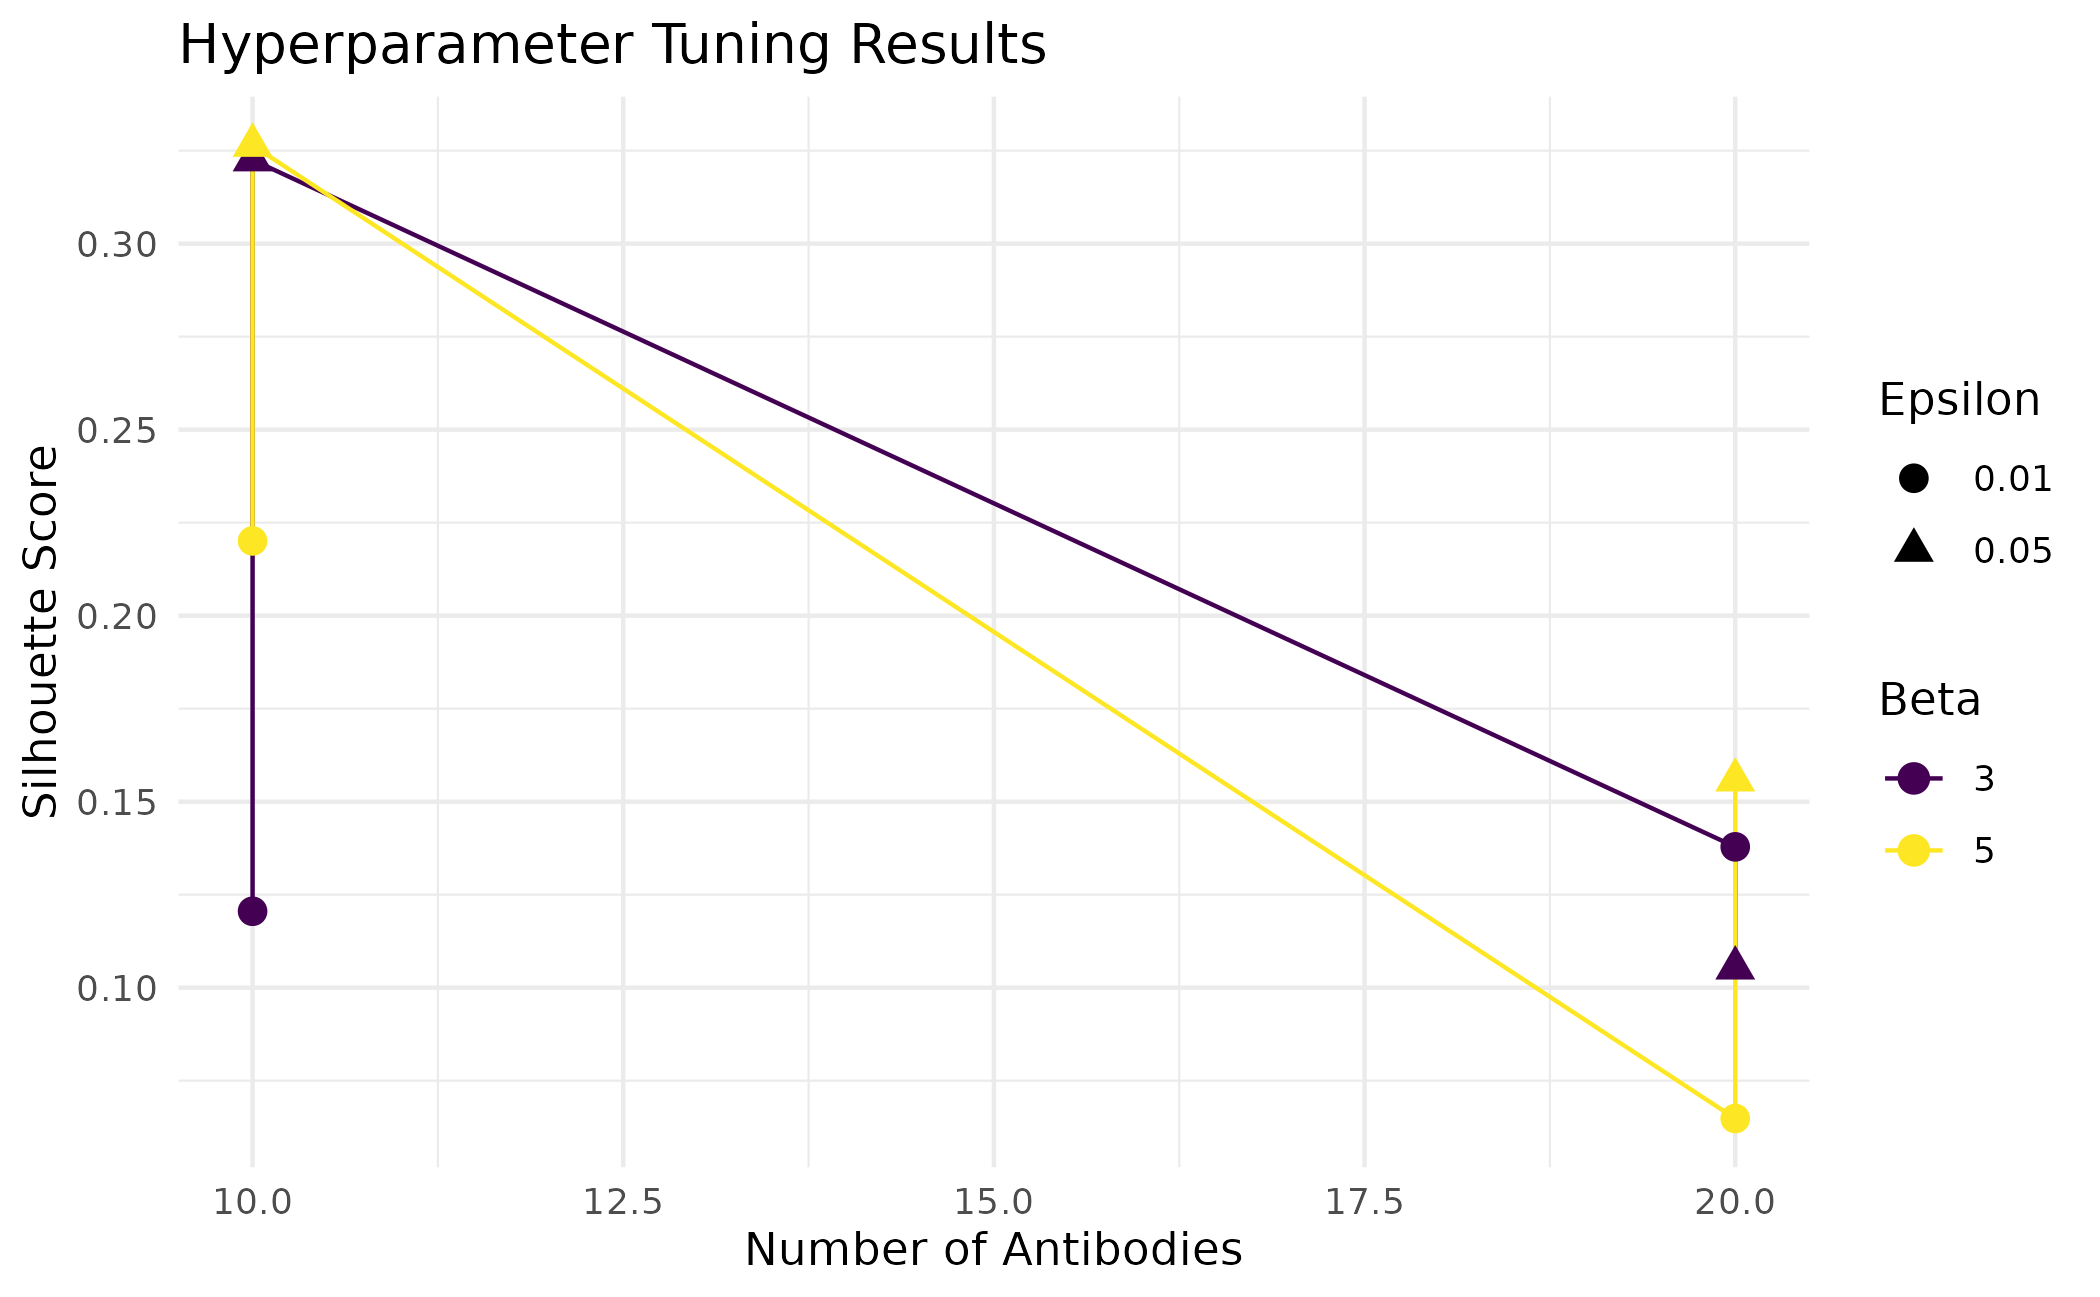
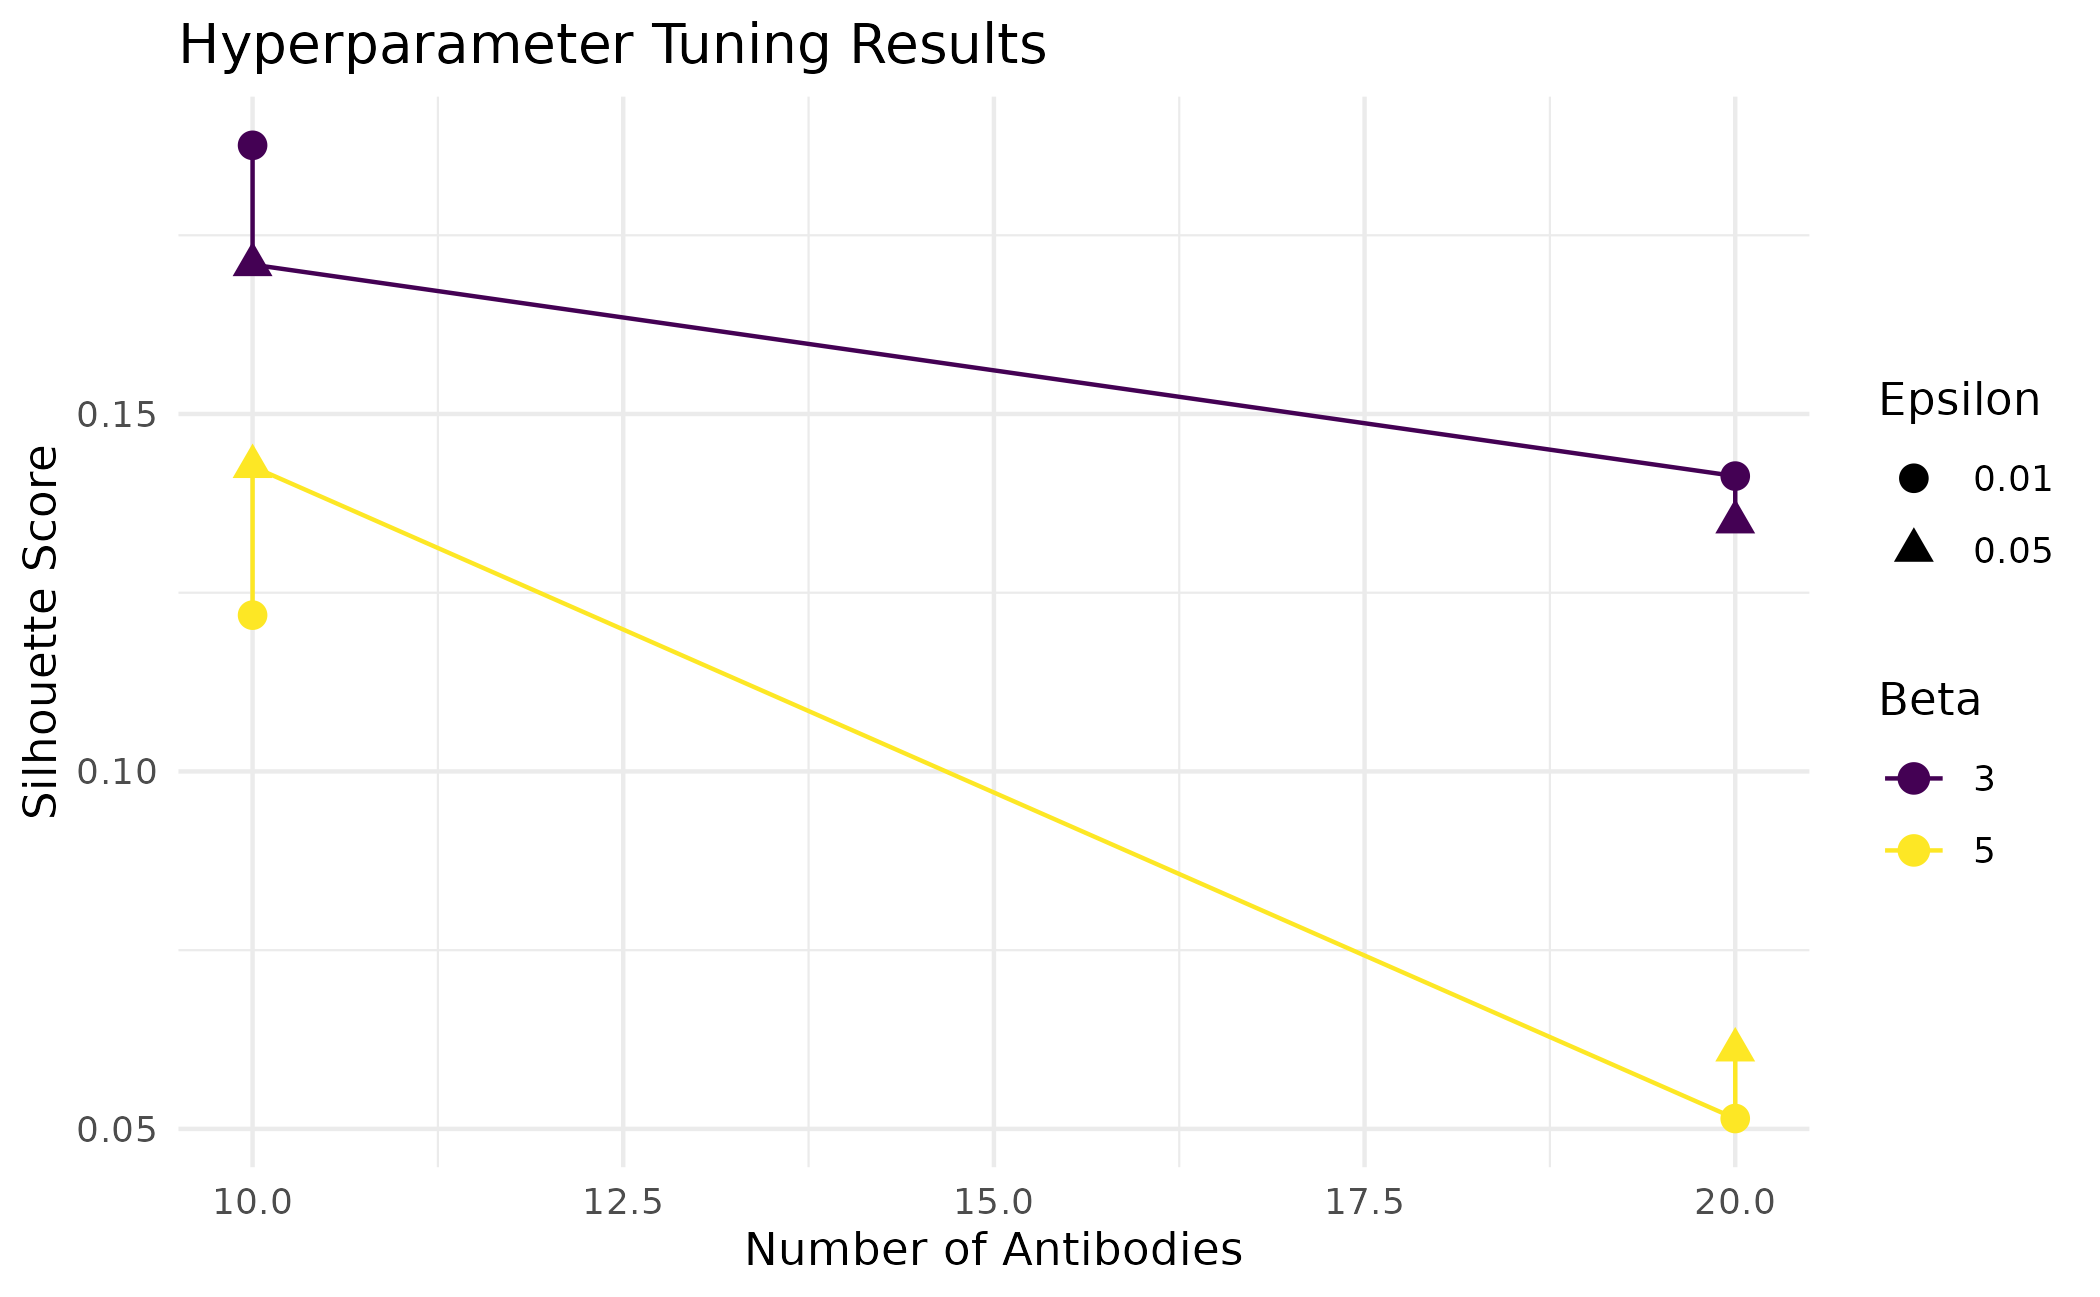
Deploying to master from @ BorchLab/bHIVE@db223171c92729ac0fc8305fc7e87561c0d7a060 🚀

diff --git a/static/uploads/bhive/articles/advanced-workflows.html b/static/uploads/bhive/articles/advanced-workflows.html
@@ -7,8 +7,8 @@
 <meta name="viewport" content="width=device-width, initial-scale=1, shrink-to-fit=no">
 <title>Advanced Tuning &amp; Workflows • bHIVE</title>
 <script src="../deps/jquery-3.6.0/jquery-3.6.0.min.js"></script><meta name="viewport" content="width=device-width, initial-scale=1, shrink-to-fit=no">
-<link href="../deps/bootstrap-5.3.1/bootstrap.min.css" rel="stylesheet">
-<script src="../deps/bootstrap-5.3.1/bootstrap.bundle.min.js"></script><link href="../deps/font-awesome-6.5.2/css/all.min.css" rel="stylesheet">
+<link href="../deps/bootstrap-5.3.8/bootstrap.min.css" rel="stylesheet">
+<script src="../deps/bootstrap-5.3.8/bootstrap.bundle.min.js"></script><link href="../deps/font-awesome-6.5.2/css/all.min.css" rel="stylesheet">
 <link href="../deps/font-awesome-6.5.2/css/v4-shims.min.css" rel="stylesheet">
 <script src="../deps/headroom-0.11.0/headroom.min.js"></script><script src="../deps/headroom-0.11.0/jQuery.headroom.min.js"></script><script src="../deps/bootstrap-toc-1.0.1/bootstrap-toc.min.js"></script><script src="../deps/clipboard.js-2.0.11/clipboard.min.js"></script><script src="../deps/search-1.0.0/autocomplete.jquery.min.js"></script><script src="../deps/search-1.0.0/fuse.min.js"></script><script src="../deps/search-1.0.0/mark.min.js"></script><!-- pkgdown --><script src="../pkgdown.js"></script><meta property="og:title" content="Advanced Tuning &amp; Workflows">
 </head>
@@ -67,7 +67,7 @@ Borcherding</h4>
 MO, USA<br><a class="author_email" href="mailto:#"></a><a href="mailto:[email redacted]" class="email">[email redacted]</a>
       </address>
                   
-            <h4 data-toc-skip class="date">2026-05-11</h4>
+            <h4 data-toc-skip class="date">2026-06-09</h4>
       
       <small class="dont-index">Source: <a href="https://github.com/BorchLab/bHIVE/blob/main/vignettes/articles/advanced-workflows.Rmd" class="external-link"><code>vignettes/articles/advanced-workflows.Rmd</code></a></small>
       <div class="d-none name"><code>advanced-workflows.Rmd</code></div>
@@ -163,7 +163,7 @@ metric.</p>
 <div class="sourceCode" id="cb2"><pre class="downlit sourceCode r">
 <code class="sourceCode R"><span><span class="va">tuning</span><span class="op">$</span><span class="va">best_params</span></span></code></pre></div>
 <pre><code><span><span class="co">##   nAntibodies beta epsilon metric_value</span></span>
-<span><span class="co">## 1          10    3    0.01    0.3180419</span></span></code></pre>
+<span><span class="co">## 4          10    5    0.01    0.2945964</span></span></code></pre>
 </div>
 <div class="section level3">
 <h3 id="classification-tuning">Classification Tuning<a class="anchor" aria-label="anchor" href="#classification-tuning"></a>
@@ -181,8 +181,8 @@ metric.</p>
 <span>                         grid <span class="op">=</span> <span class="va">grid_cls</span>, metric <span class="op">=</span> <span class="st">"accuracy"</span>,</span>
 <span>                         maxIter <span class="op">=</span> <span class="fl">15</span>, verbose <span class="op">=</span> <span class="cn">FALSE</span><span class="op">)</span></span>
 <span><span class="va">tuning_cls</span><span class="op">$</span><span class="va">best_params</span></span></code></pre></div>
-<pre><code><span><span class="co">##   nAntibodies beta epsilon metric_value</span></span>
-<span><span class="co">## 3          50    3    0.01         0.94</span></span></code></pre>
+<pre><code><span><span class="co">##    nAntibodies beta epsilon metric_value</span></span>
+<span><span class="co">## 12          50    3    0.05    0.9533333</span></span></code></pre>
 </div>
 <div class="section level3">
 <h3 id="parallelization-with-biocparallel">Parallelization with BiocParallel<a class="anchor" aria-label="anchor" href="#parallelization-with-biocparallel"></a>
@@ -675,10 +675,10 @@ understand results</li>
 <span><span class="co">## [10] vctrs_0.7.3          reshape2_1.4.5       stringr_1.6.0       </span></span>
 <span><span class="co">## [13] pkgconfig_2.0.3      fastmap_1.2.0        labeling_0.4.3      </span></span>
 <span><span class="co">## [16] rmarkdown_2.31       prodlim_2026.03.11   ragg_1.5.2          </span></span>
-<span><span class="co">## [19] purrr_1.2.2          xfun_0.57            cachem_1.1.0        </span></span>
-<span><span class="co">## [22] jsonlite_2.0.0       recipes_1.3.2        BiocParallel_1.46.0 </span></span>
+<span><span class="co">## [19] purrr_1.2.2          xfun_0.58            cachem_1.1.0        </span></span>
+<span><span class="co">## [22] jsonlite_2.0.0       recipes_1.3.3        BiocParallel_1.46.0 </span></span>
 <span><span class="co">## [25] clusterCrit_1.3.0    parallel_4.6.0       cluster_2.1.8.2     </span></span>
-<span><span class="co">## [28] R6_2.6.1             bslib_0.10.0         stringi_1.8.7       </span></span>
+<span><span class="co">## [28] R6_2.6.1             bslib_0.11.0         stringi_1.8.7       </span></span>
 <span><span class="co">## [31] RColorBrewer_1.1-3   reticulate_1.46.0    parallelly_1.47.0   </span></span>
 <span><span class="co">## [34] rpart_4.1.27         lubridate_1.9.5      jquerylib_0.1.4     </span></span>
 <span><span class="co">## [37] Rcpp_1.1.1-1.1       bookdown_0.46        iterators_1.0.14    </span></span>
@@ -696,11 +696,11 @@ understand results</li>
 <span><span class="co">## [73] RSpectra_0.16-2      ModelMetrics_1.2.2.2 gower_1.0.2         </span></span>
 <span><span class="co">## [76] fs_2.1.0             grid_4.6.0           umap_0.2.10.0       </span></span>
 <span><span class="co">## [79] ipred_0.9-15         nlme_3.1-169         cli_3.6.6           </span></span>
-<span><span class="co">## [82] textshaping_1.0.5    lava_1.9.0           dplyr_1.2.1         </span></span>
+<span><span class="co">## [82] textshaping_1.0.5    lava_1.9.1           dplyr_1.2.1         </span></span>
 <span><span class="co">## [85] gtable_0.3.6         sass_0.4.10          digest_0.6.39       </span></span>
 <span><span class="co">## [88] htmlwidgets_1.6.4    farver_2.1.2         htmltools_0.5.9     </span></span>
 <span><span class="co">## [91] pkgdown_2.2.0        lifecycle_1.0.5      hardhat_1.4.3       </span></span>
-<span><span class="co">## [94] openssl_2.4.0        MASS_7.3-65</span></span></code></pre>
+<span><span class="co">## [94] openssl_2.4.1        MASS_7.3-65</span></span></code></pre>
 </div>
   </main><aside class="col-md-3"><nav id="toc" aria-label="Table of contents"><h2>On this page</h2>
     </nav></aside>

diff --git a/static/uploads/bhive/articles/bHIVE.html b/static/uploads/bhive/articles/bHIVE.html
@@ -7,8 +7,8 @@
 <meta name="viewport" content="width=device-width, initial-scale=1, shrink-to-fit=no">
 <title>The buzz on using bHIVE • bHIVE</title>
 <script src="../deps/jquery-3.6.0/jquery-3.6.0.min.js"></script><meta name="viewport" content="width=device-width, initial-scale=1, shrink-to-fit=no">
-<link href="../deps/bootstrap-5.3.1/bootstrap.min.css" rel="stylesheet">
-<script src="../deps/bootstrap-5.3.1/bootstrap.bundle.min.js"></script><link href="../deps/font-awesome-6.5.2/css/all.min.css" rel="stylesheet">
+<link href="../deps/bootstrap-5.3.8/bootstrap.min.css" rel="stylesheet">
+<script src="../deps/bootstrap-5.3.8/bootstrap.bundle.min.js"></script><link href="../deps/font-awesome-6.5.2/css/all.min.css" rel="stylesheet">
 <link href="../deps/font-awesome-6.5.2/css/v4-shims.min.css" rel="stylesheet">
 <script src="../deps/headroom-0.11.0/headroom.min.js"></script><script src="../deps/headroom-0.11.0/jQuery.headroom.min.js"></script><script src="../deps/bootstrap-toc-1.0.1/bootstrap-toc.min.js"></script><script src="../deps/clipboard.js-2.0.11/clipboard.min.js"></script><script src="../deps/search-1.0.0/autocomplete.jquery.min.js"></script><script src="../deps/search-1.0.0/fuse.min.js"></script><script src="../deps/search-1.0.0/mark.min.js"></script><!-- pkgdown --><script src="../pkgdown.js"></script><meta property="og:title" content="The buzz on using bHIVE">
 </head>
@@ -67,7 +67,7 @@ Borcherding</h4>
 MO, USA<br><a class="author_email" href="mailto:#"></a><a href="mailto:[email redacted]" class="email">[email redacted]</a>
       </address>
                   
-            <h4 data-toc-skip class="date">2026-05-11</h4>
+            <h4 data-toc-skip class="date">2026-06-09</h4>
       
       <small class="dont-index">Source: <a href="https://github.com/BorchLab/bHIVE/blob/main/vignettes/bHIVE.Rmd" class="external-link"><code>vignettes/bHIVE.Rmd</code></a></small>
       <div class="d-none name"><code>bHIVE.Rmd</code></div>
@@ -375,7 +375,7 @@ tuning for clustering using <code>swarmbHIVE</code>.</p>
 <div class="sourceCode" id="cb7"><pre class="downlit sourceCode r">
 <code class="sourceCode R"><span><span class="va">tuning_results</span><span class="op">$</span><span class="va">best_params</span></span></code></pre></div>
 <pre><code><span><span class="co">##   nAntibodies beta epsilon metric_value</span></span>
-<span><span class="co">## 7          10    5    0.05    0.3264228</span></span></code></pre>
+<span><span class="co">## 1          10    3    0.01    0.1875808</span></span></code></pre>
 </div>
 <div class="section level3">
 <h3 id="using-the-caret-wrapper">Using the <code>caret</code> wrapper<a class="anchor" aria-label="anchor" href="#using-the-caret-wrapper"></a>
@@ -750,10 +750,10 @@ or suggestions, please visit the <a href="https://github.com/BorchLab/bHIVE" cla
 <span><span class="co">## [10] vctrs_0.7.3          reshape2_1.4.5       stringr_1.6.0       </span></span>
 <span><span class="co">## [13] pkgconfig_2.0.3      fastmap_1.2.0        labeling_0.4.3      </span></span>
 <span><span class="co">## [16] rmarkdown_2.31       prodlim_2026.03.11   ragg_1.5.2          </span></span>
-<span><span class="co">## [19] purrr_1.2.2          xfun_0.57            cachem_1.1.0        </span></span>
-<span><span class="co">## [22] jsonlite_2.0.0       recipes_1.3.2        BiocParallel_1.46.0 </span></span>
+<span><span class="co">## [19] purrr_1.2.2          xfun_0.58            cachem_1.1.0        </span></span>
+<span><span class="co">## [22] jsonlite_2.0.0       recipes_1.3.3        BiocParallel_1.46.0 </span></span>
 <span><span class="co">## [25] clusterCrit_1.3.0    parallel_4.6.0       cluster_2.1.8.2     </span></span>
-<span><span class="co">## [28] R6_2.6.1             bslib_0.10.0         stringi_1.8.7       </span></span>
+<span><span class="co">## [28] R6_2.6.1             bslib_0.11.0         stringi_1.8.7       </span></span>
 <span><span class="co">## [31] RColorBrewer_1.1-3   reticulate_1.46.0    parallelly_1.47.0   </span></span>
 <span><span class="co">## [34] rpart_4.1.27         lubridate_1.9.5      jquerylib_0.1.4     </span></span>
 <span><span class="co">## [37] Rcpp_1.1.1-1.1       bookdown_0.46        iterators_1.0.14    </span></span>
@@ -771,11 +771,11 @@ or suggestions, please visit the <a href="https://github.com/BorchLab/bHIVE" cla
 <span><span class="co">## [73] RSpectra_0.16-2      ModelMetrics_1.2.2.2 gower_1.0.2         </span></span>
 <span><span class="co">## [76] fs_2.1.0             grid_4.6.0           umap_0.2.10.0       </span></span>
 <span><span class="co">## [79] ipred_0.9-15         nlme_3.1-169         cli_3.6.6           </span></span>
-<span><span class="co">## [82] textshaping_1.0.5    lava_1.9.0           dplyr_1.2.1         </span></span>
+<span><span class="co">## [82] textshaping_1.0.5    lava_1.9.1           dplyr_1.2.1         </span></span>
 <span><span class="co">## [85] gtable_0.3.6         sass_0.4.10          digest_0.6.39       </span></span>
 <span><span class="co">## [88] htmlwidgets_1.6.4    farver_2.1.2         htmltools_0.5.9     </span></span>
 <span><span class="co">## [91] pkgdown_2.2.0        lifecycle_1.0.5      hardhat_1.4.3       </span></span>
-<span><span class="co">## [94] openssl_2.4.0        MASS_7.3-65</span></span></code></pre>
+<span><span class="co">## [94] openssl_2.4.1        MASS_7.3-65</span></span></code></pre>
 </div>
   </main><aside class="col-md-3"><nav id="toc" aria-label="Table of contents"><h2>On this page</h2>
     </nav></aside>

diff --git a/static/uploads/bhive/articles/foundations.html b/static/uploads/bhive/articles/foundations.html
@@ -7,8 +7,8 @@
 <meta name="viewport" content="width=device-width, initial-scale=1, shrink-to-fit=no">
 <title>Algorithm &amp; Biological Foundations • bHIVE</title>
 <script src="../deps/jquery-3.6.0/jquery-3.6.0.min.js"></script><meta name="viewport" content="width=device-width, initial-scale=1, shrink-to-fit=no">
-<link href="../deps/bootstrap-5.3.1/bootstrap.min.css" rel="stylesheet">
-<script src="../deps/bootstrap-5.3.1/bootstrap.bundle.min.js"></script><link href="../deps/font-awesome-6.5.2/css/all.min.css" rel="stylesheet">
+<link href="../deps/bootstrap-5.3.8/bootstrap.min.css" rel="stylesheet">
+<script src="../deps/bootstrap-5.3.8/bootstrap.bundle.min.js"></script><link href="../deps/font-awesome-6.5.2/css/all.min.css" rel="stylesheet">
 <link href="../deps/font-awesome-6.5.2/css/v4-shims.min.css" rel="stylesheet">
 <script src="../deps/headroom-0.11.0/headroom.min.js"></script><script src="../deps/headroom-0.11.0/jQuery.headroom.min.js"></script><script src="../deps/bootstrap-toc-1.0.1/bootstrap-toc.min.js"></script><script src="../deps/clipboard.js-2.0.11/clipboard.min.js"></script><script src="../deps/search-1.0.0/autocomplete.jquery.min.js"></script><script src="../deps/search-1.0.0/fuse.min.js"></script><script src="../deps/search-1.0.0/mark.min.js"></script><!-- pkgdown --><script src="../pkgdown.js"></script><meta property="og:title" content="Algorithm &amp; Biological Foundations">
 </head>
@@ -67,7 +67,7 @@ Borcherding</h4>
 MO, USA<br><a class="author_email" href="mailto:#"></a><a href="mailto:[email redacted]" class="email">[email redacted]</a>
       </address>
                   
-            <h4 data-toc-skip class="date">2026-05-11</h4>
+            <h4 data-toc-skip class="date">2026-06-09</h4>
       
       <small class="dont-index">Source: <a href="https://github.com/BorchLab/bHIVE/blob/main/vignettes/articles/foundations.Rmd" class="external-link"><code>vignettes/articles/foundations.Rmd</code></a></small>
       <div class="d-none name"><code>foundations.Rmd</code></div>
@@ -1270,13 +1270,13 @@ system (AIRS): An immune-inspired supervised learning algorithm.
 <span><span class="co">## [34] vctrs_0.7.3         R6_2.6.1            lifecycle_1.0.5    </span></span>
 <span><span class="co">## [37] fs_2.1.0            htmlwidgets_1.6.4   ragg_1.5.2         </span></span>
 <span><span class="co">## [40] cluster_2.1.8.2     pkgconfig_2.0.3     desc_1.4.3         </span></span>
-<span><span class="co">## [43] pkgdown_2.2.0       pillar_1.11.1       bslib_0.10.0       </span></span>
+<span><span class="co">## [43] pkgdown_2.2.0       pillar_1.11.1       bslib_0.11.0       </span></span>
 <span><span class="co">## [46] gtable_0.3.6        glue_1.8.1          Rcpp_1.1.1-1.1     </span></span>
-<span><span class="co">## [49] systemfonts_1.3.2   xfun_0.57           tibble_3.3.1       </span></span>
+<span><span class="co">## [49] systemfonts_1.3.2   xfun_0.58           tibble_3.3.1       </span></span>
 <span><span class="co">## [52] tidyselect_1.2.1    knitr_1.51          farver_2.1.2       </span></span>
 <span><span class="co">## [55] htmltools_0.5.9     rmarkdown_2.31      clusterCrit_1.3.0  </span></span>
 <span><span class="co">## [58] compiler_4.6.0      S7_0.2.2            askpass_1.2.1      </span></span>
-<span><span class="co">## [61] openssl_2.4.0</span></span></code></pre>
+<span><span class="co">## [61] openssl_2.4.1</span></span></code></pre>
 </div>
   </main><aside class="col-md-3"><nav id="toc" aria-label="Table of contents"><h2>On this page</h2>
     </nav></aside>

diff --git a/static/uploads/bhive/articles/immune-modules.html b/static/uploads/bhive/articles/immune-modules.html
@@ -7,8 +7,8 @@
 <meta name="viewport" content="width=device-width, initial-scale=1, shrink-to-fit=no">
 <title>Composing Immune Modules • bHIVE</title>
 <script src="../deps/jquery-3.6.0/jquery-3.6.0.min.js"></script><meta name="viewport" content="width=device-width, initial-scale=1, shrink-to-fit=no">
-<link href="../deps/bootstrap-5.3.1/bootstrap.min.css" rel="stylesheet">
-<script src="../deps/bootstrap-5.3.1/bootstrap.bundle.min.js"></script><link href="../deps/font-awesome-6.5.2/css/all.min.css" rel="stylesheet">
+<link href="../deps/bootstrap-5.3.8/bootstrap.min.css" rel="stylesheet">
+<script src="../deps/bootstrap-5.3.8/bootstrap.bundle.min.js"></script><link href="../deps/font-awesome-6.5.2/css/all.min.css" rel="stylesheet">
 <link href="../deps/font-awesome-6.5.2/css/v4-shims.min.css" rel="stylesheet">
 <script src="../deps/headroom-0.11.0/headroom.min.js"></script><script src="../deps/headroom-0.11.0/jQuery.headroom.min.js"></script><script src="../deps/bootstrap-toc-1.0.1/bootstrap-toc.min.js"></script><script src="../deps/clipboard.js-2.0.11/clipboard.min.js"></script><script src="../deps/search-1.0.0/autocomplete.jquery.min.js"></script><script src="../deps/search-1.0.0/fuse.min.js"></script><script src="../deps/search-1.0.0/mark.min.js"></script><!-- pkgdown --><script src="../pkgdown.js"></script><meta property="og:title" content="Composing Immune Modules">
 </head>
@@ -67,7 +67,7 @@ Borcherding</h4>
 MO, USA<br><a class="author_email" href="mailto:#"></a><a href="mailto:[email redacted]" class="email">[email redacted]</a>
       </address>
                   
-            <h4 data-toc-skip class="date">2026-05-11</h4>
+            <h4 data-toc-skip class="date">2026-06-09</h4>
       
       <small class="dont-index">Source: <a href="https://github.com/BorchLab/bHIVE/blob/main/vignettes/articles/immune-modules.Rmd" class="external-link"><code>vignettes/articles/immune-modules.Rmd</code></a></small>
       <div class="d-none name"><code>immune-modules.Rmd</code></div>
@@ -514,13 +514,13 @@ the combination that works best for your data and task.</p>
 <span><span class="co">## [34] vctrs_0.7.3         R6_2.6.1            lifecycle_1.0.5    </span></span>
 <span><span class="co">## [37] fs_2.1.0            htmlwidgets_1.6.4   ragg_1.5.2         </span></span>
 <span><span class="co">## [40] cluster_2.1.8.2     pkgconfig_2.0.3     desc_1.4.3         </span></span>
-<span><span class="co">## [43] pkgdown_2.2.0       pillar_1.11.1       bslib_0.10.0       </span></span>
+<span><span class="co">## [43] pkgdown_2.2.0       pillar_1.11.1       bslib_0.11.0       </span></span>
 <span><span class="co">## [46] gtable_0.3.6        glue_1.8.1          Rcpp_1.1.1-1.1     </span></span>
-<span><span class="co">## [49] systemfonts_1.3.2   xfun_0.57           tibble_3.3.1       </span></span>
+<span><span class="co">## [49] systemfonts_1.3.2   xfun_0.58           tibble_3.3.1       </span></span>
 <span><span class="co">## [52] tidyselect_1.2.1    knitr_1.51          farver_2.1.2       </span></span>
 <span><span class="co">## [55] htmltools_0.5.9     rmarkdown_2.31      clusterCrit_1.3.0  </span></span>
 <span><span class="co">## [58] compiler_4.6.0      S7_0.2.2            askpass_1.2.1      </span></span>
-<span><span class="co">## [61] openssl_2.4.0</span></span></code></pre>
+<span><span class="co">## [61] openssl_2.4.1</span></span></code></pre>
 </div>
   </main><aside class="col-md-3"><nav id="toc" aria-label="Table of contents"><h2>On this page</h2>
     </nav></aside>

diff --git a/static/uploads/bhive/reference/swarmbHIVE.html b/static/uploads/bhive/reference/swarmbHIVE.html
@@ -1,5 +1,5 @@
 <!DOCTYPE html>
-<!-- Generated by pkgdown: do not edit by hand --><html lang="en-US"><head><meta http-equiv="Content-Type" content="text/html; charset=UTF-8"><meta charset="utf-8"><meta http-equiv="X-UA-Compatible" content="IE=edge"><meta name="viewport" content="width=device-width, initial-scale=1, shrink-to-fit=no"><title>Tune Hyperparameters for bHIVE (Swarm/Grid Search) — swarmbHIVE • bHIVE</title><script src="../deps/jquery-3.6.0/jquery-3.6.0.min.js"></script><meta name="viewport" content="width=device-width, initial-scale=1, shrink-to-fit=no"><link href="../deps/bootstrap-5.3.1/bootstrap.min.css" rel="stylesheet"><script src="../deps/bootstrap-5.3.1/bootstrap.bundle.min.js"></script><link href="../deps/font-awesome-6.5.2/css/all.min.css" rel="stylesheet"><link href="../deps/font-awesome-6.5.2/css/v4-shims.min.css" rel="stylesheet"><script src="../deps/headroom-0.11.0/headroom.min.js"></script><script src="../deps/headroom-0.11.0/jQuery.headroom.min.js"></script><script src="../deps/bootstrap-toc-1.0.1/bootstrap-toc.min.js"></script><script src="../deps/clipboard.js-2.0.11/clipboard.min.js"></script><script src="../deps/search-1.0.0/autocomplete.jquery.min.js"></script><script src="../deps/search-1.0.0/fuse.min.js"></script><script src="../deps/search-1.0.0/mark.min.js"></script><!-- pkgdown --><script src="../pkgdown.js"></script><meta property="og:title" content="Tune Hyperparameters for bHIVE (Swarm/Grid Search) — swarmbHIVE"><meta name="description" content="Performs hyperparameter tuning for the bHIVE algorithm over a grid of
+<!-- Generated by pkgdown: do not edit by hand --><html lang="en-US"><head><meta http-equiv="Content-Type" content="text/html; charset=UTF-8"><meta charset="utf-8"><meta http-equiv="X-UA-Compatible" content="IE=edge"><meta name="viewport" content="width=device-width, initial-scale=1, shrink-to-fit=no"><title>Tune Hyperparameters for bHIVE (Swarm/Grid Search) — swarmbHIVE • bHIVE</title><script src="../deps/jquery-3.6.0/jquery-3.6.0.min.js"></script><meta name="viewport" content="width=device-width, initial-scale=1, shrink-to-fit=no"><link href="../deps/bootstrap-5.3.8/bootstrap.min.css" rel="stylesheet"><script src="../deps/bootstrap-5.3.8/bootstrap.bundle.min.js"></script><link href="../deps/font-awesome-6.5.2/css/all.min.css" rel="stylesheet"><link href="../deps/font-awesome-6.5.2/css/v4-shims.min.css" rel="stylesheet"><script src="../deps/headroom-0.11.0/headroom.min.js"></script><script src="../deps/headroom-0.11.0/jQuery.headroom.min.js"></script><script src="../deps/bootstrap-toc-1.0.1/bootstrap-toc.min.js"></script><script src="../deps/clipboard.js-2.0.11/clipboard.min.js"></script><script src="../deps/search-1.0.0/autocomplete.jquery.min.js"></script><script src="../deps/search-1.0.0/fuse.min.js"></script><script src="../deps/search-1.0.0/mark.min.js"></script><!-- pkgdown --><script src="../pkgdown.js"></script><meta property="og:title" content="Tune Hyperparameters for bHIVE (Swarm/Grid Search) — swarmbHIVE"><meta name="description" content="Performs hyperparameter tuning for the bHIVE algorithm over a grid of
 hyperparameter values or an externally provided data frame of parameter
 combinations. Evaluates each combination using different metrics:"><meta property="og:description" content="Performs hyperparameter tuning for the bHIVE algorithm over a grid of
 hyperparameter values or an externally provided data frame of parameter
@@ -154,7 +154,7 @@ for parallelization. The function supports <code>SerialParam</code>, <code>Multi
 <span class="r-out co"><span class="r-pr">#&gt;</span> Evaluating combo 8/8: nAntibodies=20, beta=5, epsilon=0.050</span>
 <span class="r-msg co"><span class="r-pr">#&gt;</span> Best parameters found:</span>
 <span class="r-out co"><span class="r-pr">#&gt;</span>   nAntibodies beta epsilon metric_value</span>
-<span class="r-out co"><span class="r-pr">#&gt;</span> 4          20    5    0.01    0.8666667</span>
+<span class="r-out co"><span class="r-pr">#&gt;</span> 8          20    5    0.05    0.7933333</span>
 <span class="r-in"><span></span></span>
 <span class="r-in"><span><span class="co"># For clustering with silhouette</span></span></span>
 <span class="r-in"><span><span class="fu"><a href="https://rdrr.io/r/base/Random.html" class="external-link">set.seed</a></span><span class="op">(</span><span class="fl">42</span><span class="op">)</span></span></span>
@@ -178,10 +178,10 @@ for parallelization. The function supports <code>SerialParam</code>, <code>Multi
 <span class="r-out co"><span class="r-pr">#&gt;</span> Evaluating combo 8/8: nAntibodies=10, beta=5, epsilon=0.050</span>
 <span class="r-msg co"><span class="r-pr">#&gt;</span> Best parameters found:</span>
 <span class="r-out co"><span class="r-pr">#&gt;</span>   nAntibodies beta epsilon metric_value</span>
-<span class="r-out co"><span class="r-pr">#&gt;</span> 5           5    3    0.05   0.09680709</span>
+<span class="r-out co"><span class="r-pr">#&gt;</span> 3           5    5    0.01    0.1636253</span>
 <span class="r-in"><span><span class="va">res_clust</span><span class="op">$</span><span class="va">best_params</span></span></span>
 <span class="r-out co"><span class="r-pr">#&gt;</span>   nAntibodies beta epsilon metric_value</span>
-<span class="r-out co"><span class="r-pr">#&gt;</span> 5           5    3    0.05   0.09680709</span>
+<span class="r-out co"><span class="r-pr">#&gt;</span> 3           5    5    0.01    0.1636253</span>
 <span class="r-in"><span></span></span>
 <span class="r-in"><span></span></span>
 </code></pre></div>

diff --git a/static/uploads/bhive/404.html b/static/uploads/bhive/404.html
@@ -7,8 +7,8 @@
 <meta name="viewport" content="width=device-width, initial-scale=1, shrink-to-fit=no">
 <title>Page not found (404) • bHIVE</title>
 <script src="https://www.borch.dev/uploads/bhive/deps/jquery-3.6.0/jquery-3.6.0.min.js"></script><meta name="viewport" content="width=device-width, initial-scale=1, shrink-to-fit=no">
-<link href="https://www.borch.dev/uploads/bhive/deps/bootstrap-5.3.1/bootstrap.min.css" rel="stylesheet">
-<script src="https://www.borch.dev/uploads/bhive/deps/bootstrap-5.3.1/bootstrap.bundle.min.js"></script><link href="https://www.borch.dev/uploads/bhive/deps/font-awesome-6.5.2/css/all.min.css" rel="stylesheet">
+<link href="https://www.borch.dev/uploads/bhive/deps/bootstrap-5.3.8/bootstrap.min.css" rel="stylesheet">
+<script src="https://www.borch.dev/uploads/bhive/deps/bootstrap-5.3.8/bootstrap.bundle.min.js"></script><link href="https://www.borch.dev/uploads/bhive/deps/font-awesome-6.5.2/css/all.min.css" rel="stylesheet">
 <link href="https://www.borch.dev/uploads/bhive/deps/font-awesome-6.5.2/css/v4-shims.min.css" rel="stylesheet">
 <script src="https://www.borch.dev/uploads/bhive/deps/headroom-0.11.0/headroom.min.js"></script><script src="https://www.borch.dev/uploads/bhive/deps/headroom-0.11.0/jQuery.headroom.min.js"></script><script src="https://www.borch.dev/uploads/bhive/deps/bootstrap-toc-1.0.1/bootstrap-toc.min.js"></script><script src="https://www.borch.dev/uploads/bhive/deps/clipboard.js-2.0.11/clipboard.min.js"></script><script src="https://www.borch.dev/uploads/bhive/deps/search-1.0.0/autocomplete.jquery.min.js"></script><script src="https://www.borch.dev/uploads/bhive/deps/search-1.0.0/fuse.min.js"></script><script src="https://www.borch.dev/uploads/bhive/deps/search-1.0.0/mark.min.js"></script><!-- pkgdown --><script src="https://www.borch.dev/uploads/bhive/pkgdown.js"></script><meta property="og:title" content="Page not found (404)">
 <meta property="og:image" content="https://www.borch.dev/uploads/bhive/logo.png">

diff --git a/static/uploads/bhive/index.html b/static/uploads/bhive/index.html
@@ -7,8 +7,8 @@
 <meta name="viewport" content="width=device-width, initial-scale=1, shrink-to-fit=no">
 <title>bHIVE - B-cell Hybrid Immune Variant Engine • bHIVE</title>
 <script src="deps/jquery-3.6.0/jquery-3.6.0.min.js"></script><meta name="viewport" content="width=device-width, initial-scale=1, shrink-to-fit=no">
-<link href="deps/bootstrap-5.3.1/bootstrap.min.css" rel="stylesheet">
-<script src="deps/bootstrap-5.3.1/bootstrap.bundle.min.js"></script><link href="deps/font-awesome-6.5.2/css/all.min.css" rel="stylesheet">
+<link href="deps/bootstrap-5.3.8/bootstrap.min.css" rel="stylesheet">
+<script src="deps/bootstrap-5.3.8/bootstrap.bundle.min.js"></script><link href="deps/font-awesome-6.5.2/css/all.min.css" rel="stylesheet">
 <link href="deps/font-awesome-6.5.2/css/v4-shims.min.css" rel="stylesheet">
 <script src="deps/headroom-0.11.0/headroom.min.js"></script><script src="deps/headroom-0.11.0/jQuery.headroom.min.js"></script><script src="deps/bootstrap-toc-1.0.1/bootstrap-toc.min.js"></script><script src="deps/clipboard.js-2.0.11/clipboard.min.js"></script><script src="deps/search-1.0.0/autocomplete.jquery.min.js"></script><script src="deps/search-1.0.0/fuse.min.js"></script><script src="deps/search-1.0.0/mark.min.js"></script><!-- pkgdown --><script src="pkgdown.js"></script><meta property="og:title" content="bHIVE - B-cell Hybrid Immune Variant Engine">
 <meta name="description" content="Modular Artificial Immune System framework for clustering and classification in R. C++ backend via RcppArmadillo with composable biologically-inspired modules.

diff --git a/static/uploads/bhive/LICENSE-text.html b/static/uploads/bhive/LICENSE-text.html
@@ -1,5 +1,5 @@
 <!DOCTYPE html>
-<!-- Generated by pkgdown: do not edit by hand --><html lang="en-US"><head><meta http-equiv="Content-Type" content="text/html; charset=UTF-8"><meta charset="utf-8"><meta http-equiv="X-UA-Compatible" content="IE=edge"><meta name="viewport" content="width=device-width, initial-scale=1, shrink-to-fit=no"><title>License • bHIVE</title><script src="deps/jquery-3.6.0/jquery-3.6.0.min.js"></script><meta name="viewport" content="width=device-width, initial-scale=1, shrink-to-fit=no"><link href="deps/bootstrap-5.3.1/bootstrap.min.css" rel="stylesheet"><script src="deps/bootstrap-5.3.1/bootstrap.bundle.min.js"></script><link href="deps/font-awesome-6.5.2/css/all.min.css" rel="stylesheet"><link href="deps/font-awesome-6.5.2/css/v4-shims.min.css" rel="stylesheet"><script src="deps/headroom-0.11.0/headroom.min.js"></script><script src="deps/headroom-0.11.0/jQuery.headroom.min.js"></script><script src="deps/bootstrap-toc-1.0.1/bootstrap-toc.min.js"></script><script src="deps/clipboard.js-2.0.11/clipboard.min.js"></script><script src="deps/search-1.0.0/autocomplete.jquery.min.js"></script><script src="deps/search-1.0.0/fuse.min.js"></script><script src="deps/search-1.0.0/mark.min.js"></script><!-- pkgdown --><script src="pkgdown.js"></script><meta property="og:title" content="License"><meta property="og:image" content="https://www.borch.dev/uploads/bhive/logo.png"></head><body>
+<!-- Generated by pkgdown: do not edit by hand --><html lang="en-US"><head><meta http-equiv="Content-Type" content="text/html; charset=UTF-8"><meta charset="utf-8"><meta http-equiv="X-UA-Compatible" content="IE=edge"><meta name="viewport" content="width=device-width, initial-scale=1, shrink-to-fit=no"><title>License • bHIVE</title><script src="deps/jquery-3.6.0/jquery-3.6.0.min.js"></script><meta name="viewport" content="width=device-width, initial-scale=1, shrink-to-fit=no"><link href="deps/bootstrap-5.3.8/bootstrap.min.css" rel="stylesheet"><script src="deps/bootstrap-5.3.8/bootstrap.bundle.min.js"></script><link href="deps/font-awesome-6.5.2/css/all.min.css" rel="stylesheet"><link href="deps/font-awesome-6.5.2/css/v4-shims.min.css" rel="stylesheet"><script src="deps/headroom-0.11.0/headroom.min.js"></script><script src="deps/headroom-0.11.0/jQuery.headroom.min.js"></script><script src="deps/bootstrap-toc-1.0.1/bootstrap-toc.min.js"></script><script src="deps/clipboard.js-2.0.11/clipboard.min.js"></script><script src="deps/search-1.0.0/autocomplete.jquery.min.js"></script><script src="deps/search-1.0.0/fuse.min.js"></script><script src="deps/search-1.0.0/mark.min.js"></script><!-- pkgdown --><script src="pkgdown.js"></script><meta property="og:title" content="License"><meta property="og:image" content="https://www.borch.dev/uploads/bhive/logo.png"></head><body>
     <a href="#main" class="visually-hidden-focusable">Skip to contents</a>
 
 

diff --git a/static/uploads/bhive/LICENSE.html b/static/uploads/bhive/LICENSE.html
@@ -1,5 +1,5 @@
 <!DOCTYPE html>
-<!-- Generated by pkgdown: do not edit by hand --><html lang="en-US"><head><meta http-equiv="Content-Type" content="text/html; charset=UTF-8"><meta charset="utf-8"><meta http-equiv="X-UA-Compatible" content="IE=edge"><meta name="viewport" content="width=device-width, initial-scale=1, shrink-to-fit=no"><title>MIT License • bHIVE</title><script src="deps/jquery-3.6.0/jquery-3.6.0.min.js"></script><meta name="viewport" content="width=device-width, initial-scale=1, shrink-to-fit=no"><link href="deps/bootstrap-5.3.1/bootstrap.min.css" rel="stylesheet"><script src="deps/bootstrap-5.3.1/bootstrap.bundle.min.js"></script><link href="deps/font-awesome-6.5.2/css/all.min.css" rel="stylesheet"><link href="deps/font-awesome-6.5.2/css/v4-shims.min.css" rel="stylesheet"><script src="deps/headroom-0.11.0/headroom.min.js"></script><script src="deps/headroom-0.11.0/jQuery.headroom.min.js"></script><script src="deps/bootstrap-toc-1.0.1/bootstrap-toc.min.js"></script><script src="deps/clipboard.js-2.0.11/clipboard.min.js"></script><script src="deps/search-1.0.0/autocomplete.jquery.min.js"></script><script src="deps/search-1.0.0/fuse.min.js"></script><script src="deps/search-1.0.0/mark.min.js"></script><!-- pkgdown --><script src="pkgdown.js"></script><meta property="og:title" content="MIT License"><meta property="og:image" content="https://www.borch.dev/uploads/bhive/logo.png"></head><body>
+<!-- Generated by pkgdown: do not edit by hand --><html lang="en-US"><head><meta http-equiv="Content-Type" content="text/html; charset=UTF-8"><meta charset="utf-8"><meta http-equiv="X-UA-Compatible" content="IE=edge"><meta name="viewport" content="width=device-width, initial-scale=1, shrink-to-fit=no"><title>MIT License • bHIVE</title><script src="deps/jquery-3.6.0/jquery-3.6.0.min.js"></script><meta name="viewport" content="width=device-width, initial-scale=1, shrink-to-fit=no"><link href="deps/bootstrap-5.3.8/bootstrap.min.css" rel="stylesheet"><script src="deps/bootstrap-5.3.8/bootstrap.bundle.min.js"></script><link href="deps/font-awesome-6.5.2/css/all.min.css" rel="stylesheet"><link href="deps/font-awesome-6.5.2/css/v4-shims.min.css" rel="stylesheet"><script src="deps/headroom-0.11.0/headroom.min.js"></script><script src="deps/headroom-0.11.0/jQuery.headroom.min.js"></script><script src="deps/bootstrap-toc-1.0.1/bootstrap-toc.min.js"></script><script src="deps/clipboard.js-2.0.11/clipboard.min.js"></script><script src="deps/search-1.0.0/autocomplete.jquery.min.js"></script><script src="deps/search-1.0.0/fuse.min.js"></script><script src="deps/search-1.0.0/mark.min.js"></script><!-- pkgdown --><script src="pkgdown.js"></script><meta property="og:title" content="MIT License"><meta property="og:image" content="https://www.borch.dev/uploads/bhive/logo.png"></head><body>
     <a href="#main" class="visually-hidden-focusable">Skip to contents</a>
 
 

diff --git a/static/uploads/bhive/articles/index.html b/static/uploads/bhive/articles/index.html
@@ -1,5 +1,5 @@
 <!DOCTYPE html>
-<!-- Generated by pkgdown: do not edit by hand --><html lang="en-US"><head><meta http-equiv="Content-Type" content="text/html; charset=UTF-8"><meta charset="utf-8"><meta http-equiv="X-UA-Compatible" content="IE=edge"><meta name="viewport" content="width=device-width, initial-scale=1, shrink-to-fit=no"><title>Articles • bHIVE</title><script src="../deps/jquery-3.6.0/jquery-3.6.0.min.js"></script><meta name="viewport" content="width=device-width, initial-scale=1, shrink-to-fit=no"><link href="../deps/bootstrap-5.3.1/bootstrap.min.css" rel="stylesheet"><script src="../deps/bootstrap-5.3.1/bootstrap.bundle.min.js"></script><link href="../deps/font-awesome-6.5.2/css/all.min.css" rel="stylesheet"><link href="../deps/font-awesome-6.5.2/css/v4-shims.min.css" rel="stylesheet"><script src="../deps/headroom-0.11.0/headroom.min.js"></script><script src="../deps/headroom-0.11.0/jQuery.headroom.min.js"></script><script src="../deps/bootstrap-toc-1.0.1/bootstrap-toc.min.js"></script><script src="../deps/clipboard.js-2.0.11/clipboard.min.js"></script><script src="../deps/search-1.0.0/autocomplete.jquery.min.js"></script><script src="../deps/search-1.0.0/fuse.min.js"></script><script src="../deps/search-1.0.0/mark.min.js"></script><!-- pkgdown --><script src="../pkgdown.js"></script><meta property="og:title" content="Articles"><meta property="og:image" content="https://www.borch.dev/uploads/bhive/logo.png"></head><body>
+<!-- Generated by pkgdown: do not edit by hand --><html lang="en-US"><head><meta http-equiv="Content-Type" content="text/html; charset=UTF-8"><meta charset="utf-8"><meta http-equiv="X-UA-Compatible" content="IE=edge"><meta name="viewport" content="width=device-width, initial-scale=1, shrink-to-fit=no"><title>Articles • bHIVE</title><script src="../deps/jquery-3.6.0/jquery-3.6.0.min.js"></script><meta name="viewport" content="width=device-width, initial-scale=1, shrink-to-fit=no"><link href="../deps/bootstrap-5.3.8/bootstrap.min.css" rel="stylesheet"><script src="../deps/bootstrap-5.3.8/bootstrap.bundle.min.js"></script><link href="../deps/font-awesome-6.5.2/css/all.min.css" rel="stylesheet"><link href="../deps/font-awesome-6.5.2/css/v4-shims.min.css" rel="stylesheet"><script src="../deps/headroom-0.11.0/headroom.min.js"></script><script src="../deps/headroom-0.11.0/jQuery.headroom.min.js"></script><script src="../deps/bootstrap-toc-1.0.1/bootstrap-toc.min.js"></script><script src="../deps/clipboard.js-2.0.11/clipboard.min.js"></script><script src="../deps/search-1.0.0/autocomplete.jquery.min.js"></script><script src="../deps/search-1.0.0/fuse.min.js"></script><script src="../deps/search-1.0.0/mark.min.js"></script><!-- pkgdown --><script src="../pkgdown.js"></script><meta property="og:title" content="Articles"><meta property="og:image" content="https://www.borch.dev/uploads/bhive/logo.png"></head><body>
     <a href="#main" class="visually-hidden-focusable">Skip to contents</a>
 
 

diff --git a/static/uploads/bhive/authors.html b/static/uploads/bhive/authors.html
@@ -1,5 +1,5 @@
 <!DOCTYPE html>
-<!-- Generated by pkgdown: do not edit by hand --><html lang="en-US"><head><meta http-equiv="Content-Type" content="text/html; charset=UTF-8"><meta charset="utf-8"><meta http-equiv="X-UA-Compatible" content="IE=edge"><meta name="viewport" content="width=device-width, initial-scale=1, shrink-to-fit=no"><title>Authors and Citation • bHIVE</title><script src="deps/jquery-3.6.0/jquery-3.6.0.min.js"></script><meta name="viewport" content="width=device-width, initial-scale=1, shrink-to-fit=no"><link href="deps/bootstrap-5.3.1/bootstrap.min.css" rel="stylesheet"><script src="deps/bootstrap-5.3.1/bootstrap.bundle.min.js"></script><link href="deps/font-awesome-6.5.2/css/all.min.css" rel="stylesheet"><link href="deps/font-awesome-6.5.2/css/v4-shims.min.css" rel="stylesheet"><script src="deps/headroom-0.11.0/headroom.min.js"></script><script src="deps/headroom-0.11.0/jQuery.headroom.min.js"></script><script src="deps/bootstrap-toc-1.0.1/bootstrap-toc.min.js"></script><script src="deps/clipboard.js-2.0.11/clipboard.min.js"></script><script src="deps/search-1.0.0/autocomplete.jquery.min.js"></script><script src="deps/search-1.0.0/fuse.min.js"></script><script src="deps/search-1.0.0/mark.min.js"></script><!-- pkgdown --><script src="pkgdown.js"></script><meta property="og:title" content="Authors and Citation"><meta property="og:image" content="https://www.borch.dev/uploads/bhive/logo.png"></head><body>
+<!-- Generated by pkgdown: do not edit by hand --><html lang="en-US"><head><meta http-equiv="Content-Type" content="text/html; charset=UTF-8"><meta charset="utf-8"><meta http-equiv="X-UA-Compatible" content="IE=edge"><meta name="viewport" content="width=device-width, initial-scale=1, shrink-to-fit=no"><title>Authors and Citation • bHIVE</title><script src="deps/jquery-3.6.0/jquery-3.6.0.min.js"></script><meta name="viewport" content="width=device-width, initial-scale=1, shrink-to-fit=no"><link href="deps/bootstrap-5.3.8/bootstrap.min.css" rel="stylesheet"><script src="deps/bootstrap-5.3.8/bootstrap.bundle.min.js"></script><link href="deps/font-awesome-6.5.2/css/all.min.css" rel="stylesheet"><link href="deps/font-awesome-6.5.2/css/v4-shims.min.css" rel="stylesheet"><script src="deps/headroom-0.11.0/headroom.min.js"></script><script src="deps/headroom-0.11.0/jQuery.headroom.min.js"></script><script src="deps/bootstrap-toc-1.0.1/bootstrap-toc.min.js"></script><script src="deps/clipboard.js-2.0.11/clipboard.min.js"></script><script src="deps/search-1.0.0/autocomplete.jquery.min.js"></script><script src="deps/search-1.0.0/fuse.min.js"></script><script src="deps/search-1.0.0/mark.min.js"></script><!-- pkgdown --><script src="pkgdown.js"></script><meta property="og:title" content="Authors and Citation"><meta property="og:image" content="https://www.borch.dev/uploads/bhive/logo.png"></head><body>
     <a href="#main" class="visually-hidden-focusable">Skip to contents</a>
 
 

diff --git a/static/uploads/bhive/news/index.html b/static/uploads/bhive/news/index.html
@@ -1,5 +1,5 @@
 <!DOCTYPE html>
-<!-- Generated by pkgdown: do not edit by hand --><html lang="en-US"><head><meta http-equiv="Content-Type" content="text/html; charset=UTF-8"><meta charset="utf-8"><meta http-equiv="X-UA-Compatible" content="IE=edge"><meta name="viewport" content="width=device-width, initial-scale=1, shrink-to-fit=no"><title>Changelog • bHIVE</title><script src="../deps/jquery-3.6.0/jquery-3.6.0.min.js"></script><meta name="viewport" content="width=device-width, initial-scale=1, shrink-to-fit=no"><link href="../deps/bootstrap-5.3.1/bootstrap.min.css" rel="stylesheet"><script src="../deps/bootstrap-5.3.1/bootstrap.bundle.min.js"></script><link href="../deps/font-awesome-6.5.2/css/all.min.css" rel="stylesheet"><link href="../deps/font-awesome-6.5.2/css/v4-shims.min.css" rel="stylesheet"><script src="../deps/headroom-0.11.0/headroom.min.js"></script><script src="../deps/headroom-0.11.0/jQuery.headroom.min.js"></script><script src="../deps/bootstrap-toc-1.0.1/bootstrap-toc.min.js"></script><script src="../deps/clipboard.js-2.0.11/clipboard.min.js"></script><script src="../deps/search-1.0.0/autocomplete.jquery.min.js"></script><script src="../deps/search-1.0.0/fuse.min.js"></script><script src="../deps/search-1.0.0/mark.min.js"></script><!-- pkgdown --><script src="../pkgdown.js"></script><meta property="og:title" content="Changelog"><meta property="og:image" content="https://www.borch.dev/uploads/bhive/logo.png"></head><body>
+<!-- Generated by pkgdown: do not edit by hand --><html lang="en-US"><head><meta http-equiv="Content-Type" content="text/html; charset=UTF-8"><meta charset="utf-8"><meta http-equiv="X-UA-Compatible" content="IE=edge"><meta name="viewport" content="width=device-width, initial-scale=1, shrink-to-fit=no"><title>Changelog • bHIVE</title><script src="../deps/jquery-3.6.0/jquery-3.6.0.min.js"></script><meta name="viewport" content="width=device-width, initial-scale=1, shrink-to-fit=no"><link href="../deps/bootstrap-5.3.8/bootstrap.min.css" rel="stylesheet"><script src="../deps/bootstrap-5.3.8/bootstrap.bundle.min.js"></script><link href="../deps/font-awesome-6.5.2/css/all.min.css" rel="stylesheet"><link href="../deps/font-awesome-6.5.2/css/v4-shims.min.css" rel="stylesheet"><script src="../deps/headroom-0.11.0/headroom.min.js"></script><script src="../deps/headroom-0.11.0/jQuery.headroom.min.js"></script><script src="../deps/bootstrap-toc-1.0.1/bootstrap-toc.min.js"></script><script src="../deps/clipboard.js-2.0.11/clipboard.min.js"></script><script src="../deps/search-1.0.0/autocomplete.jquery.min.js"></script><script src="../deps/search-1.0.0/fuse.min.js"></script><script src="../deps/search-1.0.0/mark.min.js"></script><!-- pkgdown --><script src="../pkgdown.js"></script><meta property="og:title" content="Changelog"><meta property="og:image" content="https://www.borch.dev/uploads/bhive/logo.png"></head><body>
     <a href="#main" class="visually-hidden-focusable">Skip to contents</a>
 
 